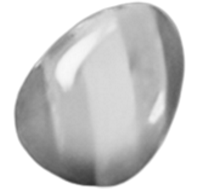
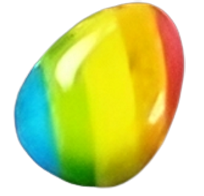
extra time candies, extra moves candies, dispensers for both as well

diff --git a/script.js b/script.js
@@ -51,6 +51,8 @@ const SUGAR_COATABLE = [
   'key_random', 'key_blue', 'key_green', 'key_orange', 'key_purple', 'key_red', 'key_yellow',
   'mystery_candy_random', 'mystery_candy_blue', 'mystery_candy_green', 'mystery_candy_orange', 'mystery_candy_purple', 'mystery_candy_red', 'mystery_candy_yellow',
   'chameleon_candy_random', 'chameleon_candy_blue', 'chameleon_candy_green', 'chameleon_candy_orange', 'chameleon_candy_purple', 'chameleon_candy_red', 'chameleon_candy_yellow',
+  'extra_time_candy_random', 'extra_time_candy_blue', 'extra_time_candy_green', 'extra_time_candy_orange', 'extra_time_candy_purple', 'extra_time_candy_red', 'extra_time_candy_yellow',
+  'extra_moves_candy_random', 'extra_moves_candy_blue', 'extra_moves_candy_green', 'extra_moves_candy_orange', 'extra_moves_candy_purple', 'extra_moves_candy_red', 'extra_moves_candy_yellow',
   'lucky_candy_random', 'lucky_candy_blue', 'lucky_candy_green', 'lucky_candy_orange', 'lucky_candy_purple', 'lucky_candy_red', 'lucky_candy_yellow',
   'jelly_fish_random', 'jelly_fish_blue', 'jelly_fish_green', 'jelly_fish_orange', 'jelly_fish_purple', 'jelly_fish_red', 'jelly_fish_yellow',
   'jelly_fish_striped_random', 'jelly_fish_striped_blue', 'jelly_fish_striped_green', 'jelly_fish_striped_orange', 'jelly_fish_striped_purple', 'jelly_fish_striped_red', 'jelly_fish_striped_yellow',
@@ -1006,7 +1008,7 @@ function drawCandyOrBlockerAt(boardRow, boardCol) {
     
     // we're doing color painting
     if (colorsToPaint.includes(currentlySelectedElement)) {
-      const colorableElementPrefixes = ['candy_', 'striped_horizontal_', 'striped_vertical_', 'wrapped_', 'bomb_', 'key_', 'mystery_candy_', 'chameleon_candy_', 'lucky_candy_', 'jelly_fish_', 'jelly_fish_striped_', 'jelly_fish_wrapped_', 'jelly_fish_color_bomb_'];
+      const colorableElementPrefixes = ['candy_', 'striped_horizontal_', 'striped_vertical_', 'wrapped_', 'bomb_', 'key_', 'mystery_candy_', 'chameleon_candy_', 'extra_time_candy_', 'extra_moves_candy_', 'lucky_candy_', 'jelly_fish_', 'jelly_fish_striped_', 'jelly_fish_wrapped_', 'jelly_fish_color_bomb_'];
       
       let isElementColorable = false;
       for (let i = 0; i < colorableElementPrefixes.length; i++) {
@@ -1548,6 +1550,8 @@ function exportLevel() {
         'key_random': '051', 'key_blue': '051057', 'key_green': '051058', 'key_orange': '051059', 'key_purple': '051060', 'key_red': '051055', 'key_yellow': '051056',
         'mystery_candy_random': '032', 'mystery_candy_blue': '032057', 'mystery_candy_green': '032058', 'mystery_candy_orange': '032059', 'mystery_candy_purple': '032060', 'mystery_candy_red': '032055', 'mystery_candy_yellow': '032056',
         'chameleon_candy_random': '033', 'chameleon_candy_blue': '033057', 'chameleon_candy_green': '033058', 'chameleon_candy_orange': '033059', 'chameleon_candy_purple': '033060', 'chameleon_candy_red': '033055', 'chameleon_candy_yellow': '033056',
+        'extra_time_candy_random': '050', 'extra_time_candy_blue': '050057', 'extra_time_candy_green': '050058', 'extra_time_candy_orange': '050059', 'extra_time_candy_purple': '050060', 'extra_time_candy_red': '050055', 'extra_time_candy_yellow': '050056',
+        'extra_moves_candy_random': '084', 'extra_moves_candy_blue': '084057', 'extra_moves_candy_green': '084058', 'extra_moves_candy_orange': '084059', 'extra_moves_candy_purple': '084060', 'extra_moves_candy_red': '084055', 'extra_moves_candy_yellow': '084056',
         'lucky_candy_random': '052', 'lucky_candy_blue': '052057', 'lucky_candy_green': '052058', 'lucky_candy_orange': '052059', 'lucky_candy_purple': '052060', 'lucky_candy_red': '052055', 'lucky_candy_yellow': '052056',
         'jelly_fish_random': '049', 'jelly_fish_blue': '049057', 'jelly_fish_green': '049058', 'jelly_fish_orange': '049059', 'jelly_fish_purple': '049060', 'jelly_fish_red': '049055', 'jelly_fish_yellow': '049056',
         'jelly_fish_striped_random': '091', 'jelly_fish_striped_blue': '091057', 'jelly_fish_striped_green': '091058', 'jelly_fish_striped_orange': '091059', 'jelly_fish_striped_purple': '091060', 'jelly_fish_striped_red': '091055', 'jelly_fish_striped_yellow': '091056',
@@ -1648,8 +1652,9 @@ function exportLevel() {
         'dispenser_color_bomb': '127',
         'dispenser_mystery_candy': '031',
         'dispenser_chameleon_candy': '067',
+        'dispenser_extra_time_candy': '069',
+        'dispenser_extra_moves_candy': '085',
         'dispenser_lucky_candy': '068',
-        'dispenser_time_candy': '069',
         'dispenser_key': '030',
         'dispenser_ingredient': '027',
         'dispenser_licorice_swirl': '028',
@@ -1820,6 +1825,24 @@ function exportLevel() {
     level['chameleonCandySpawn'] = Number(chameleonCandyInterval);
   }
 
+  const extraTimeCandyMin = document.getElementById('extra-time-candy-spawn-minimum').value;
+  if (extraTimeCandyMin !== '') {
+    level['timeCandyMax'] = Number(extraTimeCandyMin);
+  }
+  const extraTimeCandyInterval = document.getElementById('extra-time-candy-spawn-interval').value;
+  if (extraTimeCandyInterval !== '') {
+    level['timeCandySpawn'] = Number(extraTimeCandyInterval);
+  }
+
+  const extraMovesCandyMin = document.getElementById('extra-moves-candy-spawn-minimum').value;
+  if (extraMovesCandyMin !== '') {
+    level['extraMovesMin'] = Number(extraMovesCandyMin);
+  }
+  const extraMovesCandyInterval = document.getElementById('extra-moves-candy-spawn-interval').value;
+  if (extraMovesCandyInterval !== '') {
+    level['extraMovesSpawn'] = Number(extraMovesCandyInterval);
+  }
+
   const luckyCandyMin = document.getElementById('lucky-candy-spawn-minimum').value;
   if (luckyCandyMin !== '') {
     level['luckyCandyMax'] = Number(luckyCandyMin);
@@ -1827,15 +1850,6 @@ function exportLevel() {
   const luckyCandyInterval = document.getElementById('lucky-candy-spawn-interval').value;
   if (luckyCandyInterval !== '') {
     level['luckyCandySpawn'] = Number(luckyCandyInterval);
-  }
-
-  const timeCandyMin = document.getElementById('time-candy-spawn-minimum').value;
-  if (timeCandyMin !== '') {
-    level['timeCandyMax'] = Number(timeCandyMin);
-  }
-  const timeCandyInterval = document.getElementById('time-candy-spawn-interval').value;
-  if (timeCandyInterval !== '') {
-    level['timeCandySpawn'] = Number(timeCandyInterval);
   }
 
   const keyMin = document.getElementById('key-spawn-minimum').value;

diff --git a/index.html b/index.html
@@ -150,6 +150,8 @@
                   <div class="select-element" element="key_random" gamelayer="candies_blockers"></div>
                   <div class="select-element" element="mystery_candy_random" gamelayer="candies_blockers"></div>
                   <div class="select-element" element="chameleon_candy_random" gamelayer="candies_blockers"></div>
+                  <div class="select-element" element="extra_time_candy_random" gamelayer="candies_blockers"></div>
+                  <div class="select-element" element="extra_moves_candy_random" gamelayer="candies_blockers"></div>
                   <div class="select-element" element="lucky_candy_random" gamelayer="candies_blockers"></div>
                   <div class="select-element" element="jelly_fish_random" gamelayer="candies_blockers"></div>
                   <div class="select-element" element="jelly_fish_striped_random" gamelayer="candies_blockers"></div>
@@ -387,8 +389,9 @@
                   <div class="select-dispenser-element" element="dispenser_color_bomb" gamelayer="dispensers"></div>
                   <div class="select-dispenser-element" element="dispenser_mystery_candy" gamelayer="dispensers"></div>
                   <div class="select-dispenser-element" element="dispenser_chameleon_candy" gamelayer="dispensers"></div>
+                  <div class="select-dispenser-element" element="dispenser_extra_time_candy" gamelayer="dispensers"></div>
+                  <div class="select-dispenser-element" element="dispenser_extra_moves_candy" gamelayer="dispensers"></div>
                   <div class="select-dispenser-element" element="dispenser_lucky_candy" gamelayer="dispensers"></div>
-                  <div class="select-dispenser-element" element="dispenser_time_candy" gamelayer="dispensers"></div>
                   <div class="select-dispenser-element" element="dispenser_key" gamelayer="dispensers"></div>
                   <div class="select-dispenser-element" element="dispenser_ingredient" gamelayer="dispensers"></div>
                   <div class="select-dispenser-element" element="dispenser_licorice_swirl" gamelayer="dispensers"></div>
@@ -763,6 +766,44 @@
           <table>
             <thead>
               <tr>
+                <th colspan="3"><img src="elements/dispensers/dispenser_extra_time_candy.png" /><span>Extra time candies</span><img src="elements/dispensers/dispenser_extra_time_candy.png" /></th>
+              </tr>
+            </thead>
+            <tbody>
+              <tr>
+                <td>Minimum</td>
+                <td>Interval</td>
+                <td></td>
+              </tr>
+              <tr>
+                <td><input type="number" class="spawn-information-input" id="extra-time-candy-spawn-minimum" /></td>
+                <td><input type="number" class="spawn-information-input" id="extra-time-candy-spawn-interval" /></td>
+                <td></td>
+              </tr>
+            </tbody>
+          </table>
+          <table>
+            <thead>
+              <tr>
+                <th colspan="3"><img src="elements/dispensers/dispenser_extra_moves_candy.png" /><span>Extra moves candies</span><img src="elements/dispensers/dispenser_extra_moves_candy.png" /></th>
+              </tr>
+            </thead>
+            <tbody>
+              <tr>
+                <td>Minimum</td>
+                <td>Interval</td>
+                <td></td>
+              </tr>
+              <tr>
+                <td><input type="number" class="spawn-information-input" id="extra-moves-candy-spawn-minimum" /></td>
+                <td><input type="number" class="spawn-information-input" id="extra-moves-candy-spawn-interval" /></td>
+                <td></td>
+              </tr>
+            </tbody>
+          </table>
+          <table>
+            <thead>
+              <tr>
                 <th colspan="3"><img src="elements/dispensers/dispenser_lucky_candy.png" /><span>Lucky candies</span><img src="elements/dispensers/dispenser_lucky_candy.png" /></th>
               </tr>
             </thead>
@@ -775,25 +816,6 @@
               <tr>
                 <td><input type="number" class="spawn-information-input" id="lucky-candy-spawn-minimum" /></td>
                 <td><input type="number" class="spawn-information-input" id="lucky-candy-spawn-interval" /></td>
-                <td></td>
-              </tr>
-            </tbody>
-          </table>
-          <table>
-            <thead>
-              <tr>
-                <th colspan="3"><img src="elements/dispensers/dispenser_time_candy.png" /><span>Time candies</span><img src="elements/dispensers/dispenser_time_candy.png" /></th>
-              </tr>
-            </thead>
-            <tbody>
-              <tr>
-                <td>Minimum</td>
-                <td>Interval</td>
-                <td></td>
-              </tr>
-              <tr>
-                <td><input type="number" class="spawn-information-input" id="time-candy-spawn-minimum" /></td>
-                <td><input type="number" class="spawn-information-input" id="time-candy-spawn-interval" /></td>
                 <td></td>
               </tr>
             </tbody>
